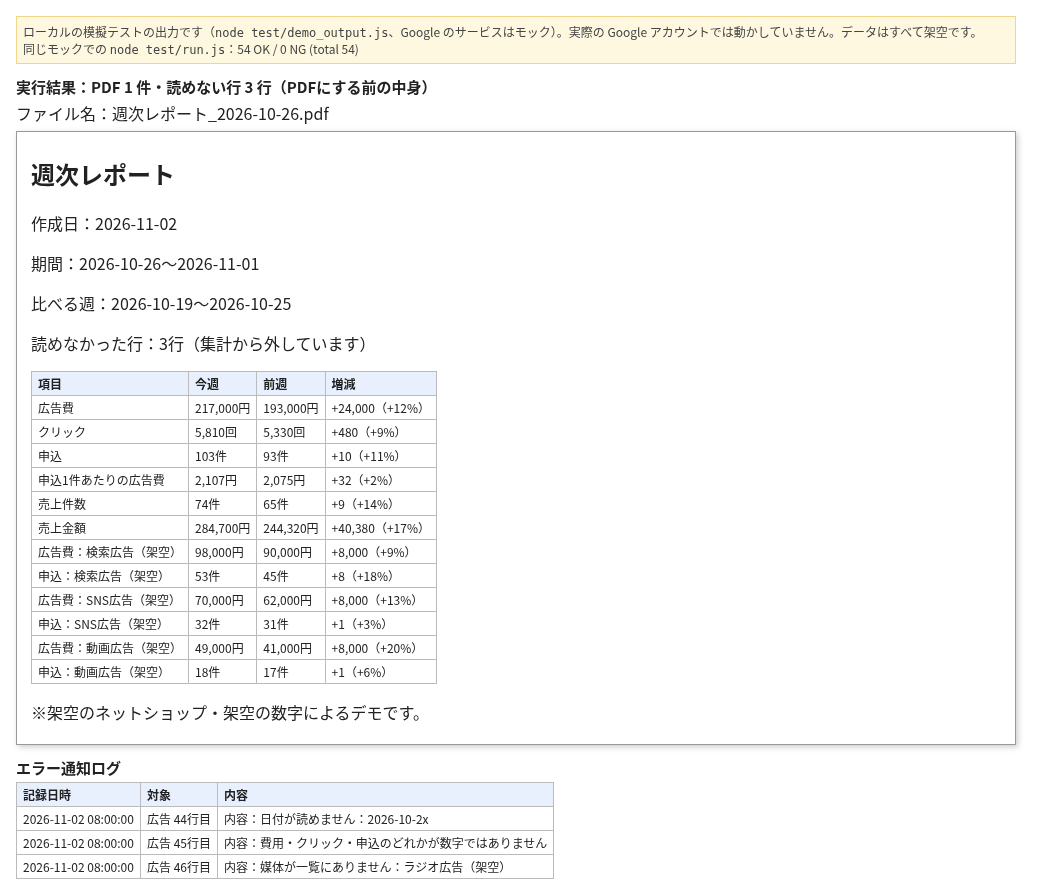
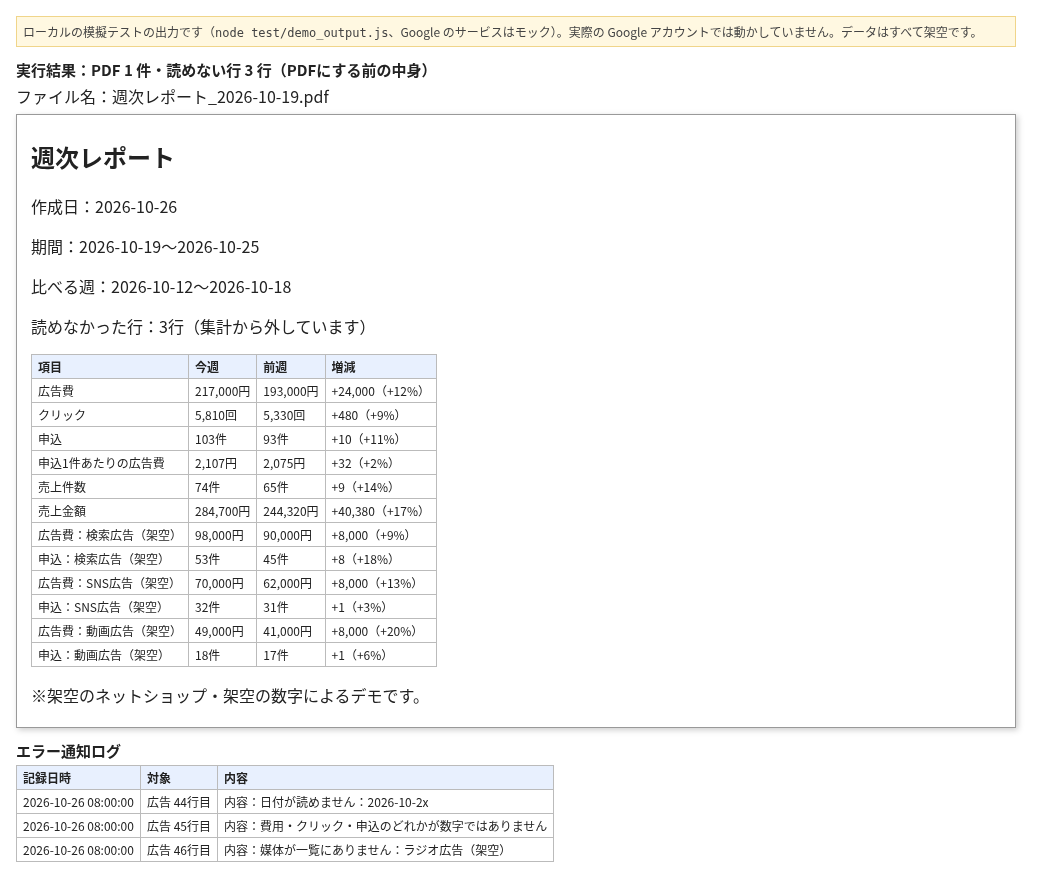
Demo dates in the past, daytime mail times, R-1007 note, README review fixes

Changed region(s): [[0.0, 0.0308, 0.9846, 0.9841]]

diff --git a/test/run.js b/test/run.js
@@ -3,7 +3,7 @@ var fs = require('fs'), path = require('path'), vm = require('vm');
 var mock = require('./mock_apis.js');
 var B = path.join(__dirname, '..', 'src');
 var FILES = ['Common.gs', 'Config.gs', 'SeedData.gs', 'Dedupe.gs', 'Notify.gs', 'Pdf.gs', 'Code.gs'];
-var T0 = Date.UTC(2026, 10, 1, 23, 0, 0); // 2026-11-02（月）08:00 JST
+var T0 = Date.UTC(2026, 9, 25, 23, 0, 0); // 2026-10-26（月）08:00 JST
 var res = [];
 function ok(name, cond, detail) { res.push(!!cond); console.log((cond ? '[OK] ' : '[NG] ') + name + (cond || !detail ? '' : ' - ' + detail)); }
 function env(nowMs) {
@@ -25,53 +25,53 @@ function log(e) { return rows(e, 'エラー通知ログ'); }
 // 10/19〜10/25：広告費 193,000円・クリック 5,330回・申込 93件・売上 65件 244,320円
 (function () {
   var e = env();
-  ok('W01 先週は 2026-10-26（月）から', e.ctx.lastWeekStart_() === '2026-10-26');
+  ok('W01 先週は 2026-10-19（月）から', e.ctx.lastWeekStart_() === '2026-10-19');
   var r = e.ctx.weeklyReport();
-  ok('W02 結果：作成1・読めない行3', r.ok && r.made === 1 && r.week === '2026-10-26' && r.excluded === 3, JSON.stringify(r));
+  ok('W02 結果：作成1・読めない行3', r.ok && r.made === 1 && r.week === '2026-10-19' && r.excluded === 3, JSON.stringify(r));
   var s = e.w.sheets['週次サマリー'].__rows();
-  ok('W03 サマリーの1行目に期間と読めない行の数', s[0][1] === '2026-10-26〜2026-11-01' && s[0][2] === '読めなかった行：3行');
+  ok('W03 サマリーの1行目に期間と読めない行の数', s[0][1] === '2026-10-19〜2026-10-25' && s[0][2] === '読めなかった行：3行');
   var t = s.slice(2).filter(function (x) { return x.length && x[0] !== ''; });
   ok('W04 見出し', t[0].join() === '項目,今週,前週,増減');
   ok('W05 広告費：217,000円・前週 193,000円・+24,000（+12%）', rowOf(t, '広告費').join() === '広告費,217,000円,193,000円,+24,000（+12%）', JSON.stringify(rowOf(t, '広告費')));
   ok('W06 クリック・申込', rowOf(t, 'クリック')[1] === '5,810回' && rowOf(t, '申込').join() === '申込,103件,93件,+10（+11%）');
   ok('W07 申込1件あたりの広告費：2,107円・前週 2,075円（四捨五入）', rowOf(t, '申込1件あたりの広告費').slice(1, 3).join() === '2,107円,2,075円');
   ok('W08 売上：74件・284,700円（前週 244,320円）', rowOf(t, '売上件数')[1] === '74件' && rowOf(t, '売上金額').join() === '売上金額,284,700円,244,320円,+40,380（+17%）');
-  var ads = e.ctx.demoAds_().filter(function (x) { return /^\d{4}-\d\d-\d\d$/.test(x[0]) && x[0] >= '2026-10-26' && x[0] <= '2026-11-01' && x[1] === '検索広告（架空）'; });
+  var ads = e.ctx.demoAds_().filter(function (x) { return /^\d{4}-\d\d-\d\d$/.test(x[0]) && x[0] >= '2026-10-19' && x[0] <= '2026-10-25' && x[1] === '検索広告（架空）'; });
   var sc = ads.reduce(function (a, x) { return a + x[2]; }, 0);
   ok('W09 媒体ごと：検索広告の広告費が元の行の合計（98,000円・日付の読めない行は除く）と一致', sc === 98000 && rowOf(t, '広告費：検索広告（架空）')[1] === '98,000円', JSON.stringify(rowOf(t, '広告費：検索広告（架空）')) + sc);
-  ok('W10 SNS広告の「千二百円」の行は入らない', rowOf(t, '広告費：SNS広告（架空）')[1] === e.ctx.demoAds_().filter(function (x) { return x[0] >= '2026-10-26' && x[0] <= '2026-11-01' && x[1] === 'SNS広告（架空）' && typeof x[2] === 'number'; }).reduce(function (a, x) { return a + x[2]; }, 0).toLocaleString('en-US') + '円');
+  ok('W10 SNS広告の「千二百円」の行は入らない', rowOf(t, '広告費：SNS広告（架空）')[1] === e.ctx.demoAds_().filter(function (x) { return x[0] >= '2026-10-19' && x[0] <= '2026-10-25' && x[1] === 'SNS広告（架空）' && typeof x[2] === 'number'; }).reduce(function (a, x) { return a + x[2]; }, 0).toLocaleString('en-US') + '円');
   var L = log(e);
   ok('W11 読めない行3つがエラー通知ログへ（日付・数字・媒体）', L.length === 3 && L.some(function (x) { return /日付が読めません：2026-10-2x/.test(x[3]); }) && L.some(function (x) { return /数字ではありません/.test(x[3]); }) && L.some(function (x) { return /媒体が一覧にありません：ラジオ広告/.test(x[3]); }), JSON.stringify(L));
   ok('W12 通知の宛先は管理者（架空）・記録だけ', L.every(function (x) { return x[2] === '管理者（架空）'; }));
   var P = pdfs(e);
-  ok('W13 PDFは1つ・名前は 週次レポート_2026-10-26.pdf', P.length === 1 && P[0].meta.name === '週次レポート_2026-10-26.pdf');
+  ok('W13 PDFは1つ・名前は 週次レポート_2026-10-19.pdf', P.length === 1 && P[0].meta.name === '週次レポート_2026-10-19.pdf');
   var folder = Object.keys(e.w.files).map(function (k) { return e.w.files[k]; }).filter(function (f) { return f.meta.mimeType === 'application/vnd.google-apps.folder'; });
   ok('W14 PDFは「週次レポート（架空デモ）」フォルダに保存', folder.length === 1 && folder[0].meta.name === '週次レポート（架空デモ）' && P[0].meta.parents[0] === e.w.props['wk_folder']);
   var doc = e.w.docs[P[0].blob.source];
-  ok('W15 PDFの表はサマリー表と同じ・期間と読めない行の注記つき', JSON.stringify(table(doc.html)) === JSON.stringify(t) && doc.html.indexOf('<p>期間：2026-10-26〜2026-11-01</p>') > 0 && doc.html.indexOf('読めなかった行：3行') > 0);
+  ok('W15 PDFの表はサマリー表と同じ・期間と読めない行の注記つき', JSON.stringify(table(doc.html)) === JSON.stringify(t) && doc.html.indexOf('<p>期間：2026-10-19〜2026-10-25</p>') > 0 && doc.html.indexOf('読めなかった行：3行') > 0);
   ok('W16 作業用ドキュメントは削除', doc.removed === true);
   var S = rows(e, '送信予定');
-  ok('W17 送信予定1行：宛先・件名・状態（記録のみ）', S.length === 1 && S[0][1] === '2026-10-26' && S[0][2] === '営業チーム（架空）' && S[0][3] === '週次レポート 2026-10-26〜2026-11-01' && S[0][7] === '未送信（記録のみ）', JSON.stringify(S));
-  ok('W18 本文に広告費・申込・売上の前週比と添付名、読めない行の案内', /広告費：217,000円（前週比 \+24,000（\+12%））/.test(S[0][4]) && /申込：103件/.test(S[0][4]) && /売上金額：284,700円/.test(S[0][4]) && /添付：週次レポート_2026-10-26\.pdf/.test(S[0][4]) && /読めなかった行が3行/.test(S[0][4]));
+  ok('W17 送信予定1行：宛先・件名・状態（記録のみ）', S.length === 1 && S[0][1] === '2026-10-19' && S[0][2] === '営業チーム（架空）' && S[0][3] === '週次レポート 2026-10-19〜2026-10-25' && S[0][7] === '未送信（記録のみ）', JSON.stringify(S));
+  ok('W18 本文に広告費・申込・売上の前週比と添付名、読めない行の案内', /広告費：217,000円（前週比 \+24,000（\+12%））/.test(S[0][4]) && /申込：103件/.test(S[0][4]) && /売上金額：284,700円/.test(S[0][4]) && /添付：週次レポート_2026-10-19\.pdf/.test(S[0][4]) && /読めなかった行が3行/.test(S[0][4]));
   ok('W19 送信予定のファイルIDは作ったPDF', S[0][6] === P[0].id && S[0][5] === P[0].meta.name);
   var H = rows(e, '週次記録');
-  ok('W20 週次記録に1行（数は文字のまま）', H.length === 1 && H[0].slice(0, 6).join() === '2026-10-26,217000,5810,103,74,284700');
+  ok('W20 週次記録に1行（数は文字のまま）', H.length === 1 && H[0].slice(0, 6).join() === '2026-10-19,217000,5810,103,74,284700');
 
   var r2 = e.ctx.weeklyReport();
   ok('W21 2回目は作らない（同じ週は二度作らない）', r2.ok && r2.made === 0 && r2.skipped === 1 && pdfs(e).length === 1 && rows(e, '送信予定').length === 1 && rows(e, '週次記録').length === 1, JSON.stringify(r2));
   ok('W22 2回目でエラー通知が増えない', log(e).length === 3);
-  var r3 = e.ctx.makeWeekly('2026-10-19');
+  var r3 = e.ctx.makeWeekly('2026-10-12');
   ok('W23 前の週（10/19）も指定すれば作れる・その前の週は0で増減は「-」', r3.made === 1 && pdfs(e).length === 2 && rowOf(table(e.w.docs[pdfs(e)[1].blob.source].html), '広告費').join() === '広告費,193,000円,0円,+193,000');
 })();
 
 (function () {
   var e = env();
-  var r = e.ctx.makeWeekly('2026-11-02');
+  var r = e.ctx.makeWeekly('2026-10-26');
   ok('E01 データが無い週は作らず、通知を記録', r.ok === false && r.code === 'NO_DATA' && pdfs(e).length === 0 && rows(e, '送信予定').length === 0 && log(e).some(function (x) { return /データがありません/.test(x[3]); }));
   ok('E02 データが無い週は「作成済み」にしない（あとで入れれば作れる）', rows(e, '作成済みの週').length === 0);
-  e.ctx.makeWeekly('2026-11-02');
+  e.ctx.makeWeekly('2026-10-26');
   ok('E02b データが無い週をもう一度動かしても、同じ通知は1回だけ（毎週の自動実行で通知が積もらない）', log(e).filter(function (x) { return /データがありません/.test(x[3]); }).length === 1);
-  var th = 0; ['2026/10/26', '2026-10-27', 'x'].forEach(function (w) { try { e.ctx.makeWeekly(w); } catch (err) { th++; } });
+  var th = 0; ['2026/10/19', '2026-10-20', 'x'].forEach(function (w) { try { e.ctx.makeWeekly(w); } catch (err) { th++; } });
   ok('E03 週の初日が月曜の yyyy-MM-dd でなければ止まる', th === 3);
   e.w.lockBusy = true;
   ok('E04 実行中なら BUSY', e.ctx.weeklyReport().code === 'BUSY');
@@ -106,8 +106,8 @@ function log(e) { return rows(e, 'エラー通知ログ'); }
   var e = env();
   // 実際のシートで日付が日付型・数字が「12,000」の文字に変わっていても数える
   var sh = e.w.sheets['広告'];
-  sh.appendRow([new Date(Date.UTC(2026, 9, 31, 3, 0, 0)), '動画広告（架空）', '１２,０００', '100', '2']);
-  sh.appendRow(['2026-11-01', '検索広告（架空）', "'=1+1", 0, 0]);
+  sh.appendRow([new Date(Date.UTC(2026, 9, 24, 3, 0, 0)), '動画広告（架空）', '１２,０００', '100', '2']);
+  sh.appendRow(['2026-10-25', '検索広告（架空）', "'=1+1", 0, 0]);
   var r = e.ctx.weeklyReport();
   var t = table(e.w.docs[pdfs(e)[0].blob.source].html);
   ok('E08 日付型の日付・全角やカンマの数字も数える', rowOf(t, '広告費')[1] === '229,000円' && r.excluded === 4, JSON.stringify(rowOf(t, '広告費')) + r.excluded);
@@ -115,10 +115,10 @@ function log(e) { return rows(e, 'エラー通知ログ'); }
 })();
 
 (function () {
-  var e = env(Date.UTC(2027, 0, 11, 0, 0, 0));
+  var e = env(Date.UTC(2026, 8, 14, 0, 0, 0));
   var r = e.ctx.makeDemoWeek();
-  ok('D01 makeDemoWeek は今日の日付に関係なくデモの週（2026-10-26）を作る', r.made === 1 && r.week === '2026-10-26' && pdfs(e).length === 1);
-  ok('D02 同じ日の weeklyReport は先週（2027-01-04）にデータが無いので作らない', e.ctx.weeklyReport().code === 'NO_DATA');
+  ok('D01 makeDemoWeek は今日の日付に関係なくデモの週（2026-10-19）を作る', r.made === 1 && r.week === '2026-10-19' && pdfs(e).length === 1);
+  ok('D02 同じ日の weeklyReport は先週（2026-09-07）にデータが無いので作らない', e.ctx.weeklyReport().code === 'NO_DATA');
 })();
 
 (function () {

diff --git a/test/demo_output.js b/test/demo_output.js
@@ -4,7 +4,7 @@ var fs = require('fs'), path = require('path'), vm = require('vm');
 var mock = require('./mock_apis.js');
 var B = path.join(__dirname, '..', 'src');
 var FILES = ['Common.gs', 'Config.gs', 'SeedData.gs', 'Dedupe.gs', 'Notify.gs', 'Pdf.gs', 'Code.gs'];
-var b = mock.buildMockGlobals({ nowMs: Date.UTC(2026, 10, 1, 23, 0, 0), docs: true });
+var b = mock.buildMockGlobals({ nowMs: Date.UTC(2026, 9, 25, 23, 0, 0), docs: true });
 var ctx = vm.createContext(b.globals);
 FILES.forEach(function (f) { vm.runInContext(fs.readFileSync(path.join(B, f), 'utf8'), ctx, { filename: f }); });
 ctx.resetDemo();

diff --git a/README.md b/README.md
@@ -4,7 +4,7 @@
 
 ![週次レポートのPDFにする前の中身とエラー通知ログ（模擬テストの出力、架空データ）](docs/local_test_output.png)
 
-架空の先週分（2026-10-26〜2026-11-01）を前の週と比べた表を作り、読めない3行を集計から外してエラー通知ログに残した結果です。上の画像は、ローカルの模擬テスト（`node test/demo_output.js`、Google のサービスはモック）の実際の出力から作りました。実際の Google アカウントでは動かしていません。
+2026-10-26（月）に作った想定で、架空の先週分（2026-10-19〜2026-10-25）を前の週（2026-10-12〜2026-10-18）と比べた表を作り、読めない3行を集計から外してエラー通知ログに残した結果です。上の画像は、ローカルの模擬テスト（`node test/demo_output.js`、Google のサービスはモック）の実際の出力から作りました。実際の Google アカウントでは動かしていません。
 
 **効果：** 毎週手で集計していた表が、月曜の朝8時台に自動でPDFになり、ドライブに保存されます。
 
@@ -32,7 +32,7 @@
 ローカルの模擬テスト（`node test/run.js`、Google のサービスはモック）で54件すべて通ることを確かめています。
 
 ## 画面
-冒頭の画像（docs/local_test_output.png）を見てください。
+冒頭の画像は、PDFにする前の週次レポートの表（広告費・クリック・申込・売上の今週と前週、増減）と、集計から外した3行のエラー通知ログです。
 
 ## 設置の手順
 1. 新しいスプレッドシートを作り、「拡張機能」から Apps Script を開く
